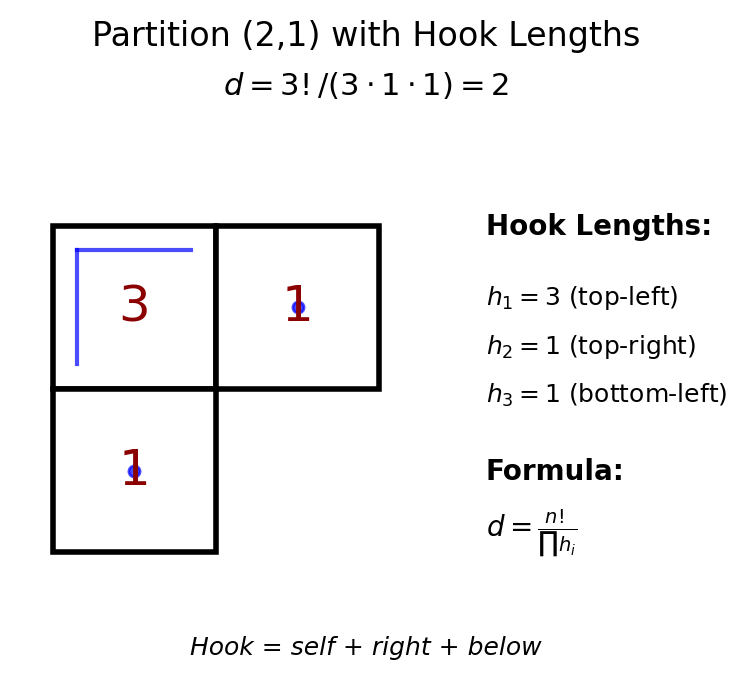
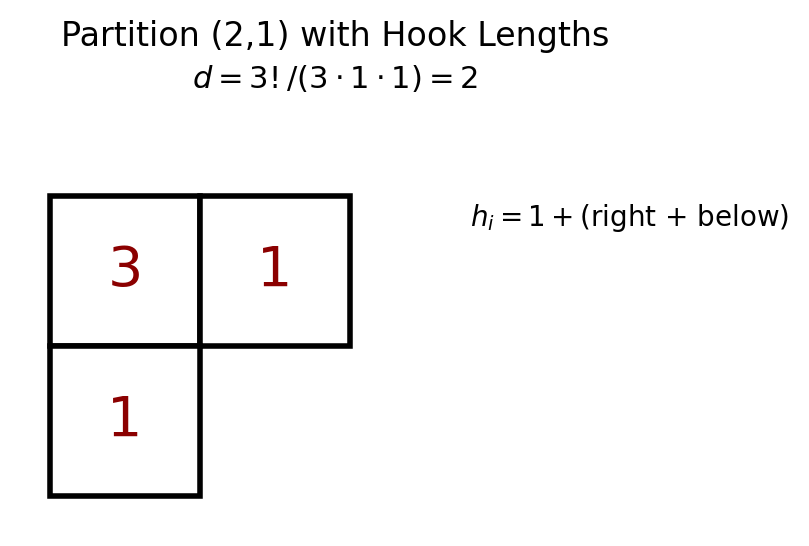
Simplify hook length diagram, use image for Standard Young Tableaux to fix rendering

diff --git a/utils/generate_young_diagrams.py b/utils/generate_young_diagrams.py
@@ -193,49 +193,28 @@ def young_diagram_2particle_comparison():
 
 
 def young_diagram_with_hook_lengths():
-    """Generate diagram showing hook lengths for (2,1) partition - compact design."""
+    """Generate simple diagram showing hook lengths for (2,1) partition."""
     setup_style()
     
-    fig = plt.figure(figsize=(5, 3.5))
-    ax = fig.add_axes([0.15, 0.15, 0.4, 0.7])  # [left, bottom, width, height]
+    fig = plt.figure(figsize=(4.5, 3))
+    ax = fig.add_axes([0.1, 0.15, 0.5, 0.75])  # [left, bottom, width, height]
     
-    # Draw (2,1) diagram with hook length labels
+    # Draw (2,1) diagram with hook length labels only
     partition = [2, 1]
     hook_lengths = ['3', '1', '1']
     
     # Draw the diagram
     draw_young_diagram(ax, partition, labels=hook_lengths, title='',
-                       label_color='darkred', label_fontsize=18)
+                       label_color='darkred', label_fontsize=20)
     
-    # Draw hook illustrations - small L-shapes in corner of each box
-    # Top-left box: hook goes right and down
-    ax.plot([0.15, 0.85], [-0.15, -0.15], 'b-', linewidth=1.5, alpha=0.7)
-    ax.plot([0.15, 0.15], [-0.15, -0.85], 'b-', linewidth=1.5, alpha=0.7)
-    
-    # Top-right box: hook is just a point (no extension)
-    ax.plot([1.5], [-0.5], 'b.', markersize=8, alpha=0.7)
-    
-    # Bottom-left box: hook is just a point (no extension)
-    ax.plot([0.5], [-1.5], 'b.', markersize=8, alpha=0.7)
-    
-    # Title
-    fig.text(0.5, 0.92, 'Partition (2,1) with Hook Lengths', 
+    # Title at top
+    fig.text(0.5, 0.95, 'Partition (2,1) with Hook Lengths', 
              ha='center', fontsize=12, fontweight='normal')
-    fig.text(0.5, 0.85, r'$d = 3!/(3 \cdot 1 \cdot 1) = 2$',
+    fig.text(0.5, 0.88, r'$d = 3!/(3 \cdot 1 \cdot 1) = 2$',
              ha='center', fontsize=11, style='italic')
     
-    # Explanation on the right side
-    fig.text(0.62, 0.65, 'Hook Lengths:', fontsize=10, fontweight='bold')
-    fig.text(0.62, 0.55, r'$h_1 = 3$ (top-left)', fontsize=9)
-    fig.text(0.62, 0.48, r'$h_2 = 1$ (top-right)', fontsize=9)
-    fig.text(0.62, 0.41, r'$h_3 = 1$ (bottom-left)', fontsize=9)
-    
-    fig.text(0.62, 0.30, 'Formula:', fontsize=10, fontweight='bold')
-    fig.text(0.62, 0.22, r'$d = \frac{n!}{\prod h_i}$', fontsize=10)
-    
-    # Bottom note
-    fig.text(0.5, 0.05, 'Hook = self + right + below', 
-             ha='center', fontsize=9, style='italic')
+    # Simple explanation on the right
+    fig.text(0.65, 0.65, r'$h_i = 1 + $(right + below)', fontsize=10)
     
     filepath = os.path.join(OUTPUT_DIR, 'young_21_hook_lengths.png')
     fig.savefig(filepath, dpi=200, facecolor='white', edgecolor='none')
@@ -302,6 +281,31 @@ def young_diagram_individual_with_label(partition, filename, label_text):
     return filepath
 
 
+def young_tableaux_example():
+    """Generate image for standard Young tableaux example (2,1) partition."""
+    setup_style()
+    
+    fig, axes = plt.subplots(1, 2, figsize=(4, 2.5))
+    
+    # Tableau 1: [[1, 2], [3]]
+    ax1 = axes[0]
+    draw_young_diagram(ax1, [2, 1], labels=['1', '2', '3'], title='')
+    ax1.text(0.5, 1.15, 'Tableau 1', ha='center', fontsize=10, transform=ax1.transAxes)
+    
+    # Tableau 2: [[1, 3], [2]]
+    ax2 = axes[1]
+    draw_young_diagram(ax2, [2, 1], labels=['1', '3', '2'], title='')
+    ax2.text(0.5, 1.15, 'Tableau 2', ha='center', fontsize=10, transform=ax2.transAxes)
+    
+    plt.tight_layout()
+    filepath = os.path.join(OUTPUT_DIR, 'young_tableaux_21_example.png')
+    fig.savefig(filepath, dpi=200, bbox_inches='tight',
+                facecolor='white', edgecolor='none')
+    print(f"Saved: {filepath}")
+    plt.close()
+    return filepath
+
+
 if __name__ == '__main__':
     print("Generating Young diagram figures...")
     
@@ -327,5 +331,8 @@ if __name__ == '__main__':
     young_diagram_pure([3], 'young_3_pure.png')
     young_diagram_pure([2, 1], 'young_21_pure.png')
     young_diagram_pure([1, 1, 1], 'young_111_pure.png')
+    
+    # Generate tableau example figure
+    young_tableaux_example()
     
     print("\nAll Young diagram figures generated successfully!")

diff --git a/docs/posts/quantum-mechanics/angular-momentum-algebra.md b/docs/posts/quantum-mechanics/angular-momentum-algebra.md
@@ -1010,23 +1010,11 @@ The number of such fillings equals the dimension of the representation.
 
 **Example: Partition (2,1) for 3 particles**
 
-Possible standard Young tableaux:
+Possible standard Young tableaux for partition $(2,1)$:
 
-$$
-\begin{array}{|c|c|}
-\hline 1 & 2 \\
-\hline 3 & \multicolumn{1}{c}{} \\
-\hline
-\end{array}
-\qquad
-\begin{array}{|c|c|}
-\hline 1 & 3 \\
-\hline 2 & \multicolumn{1}{c}{} \\
-\hline
-\end{array}
-$$
+<img src="/images/angular-momentum/young_tableaux_21_example.png" width="280px" alt="Standard Young tableaux for partition (2,1)">
 
-There are exactly 2 such fillings, so the dimension is 2. This matches our calculation using the hook length formula!
+*There are exactly 2 such fillings, so the dimension is 2. This matches our calculation using the hook length formula!*
 
 **Step 4: Connect to Physical States**
 
